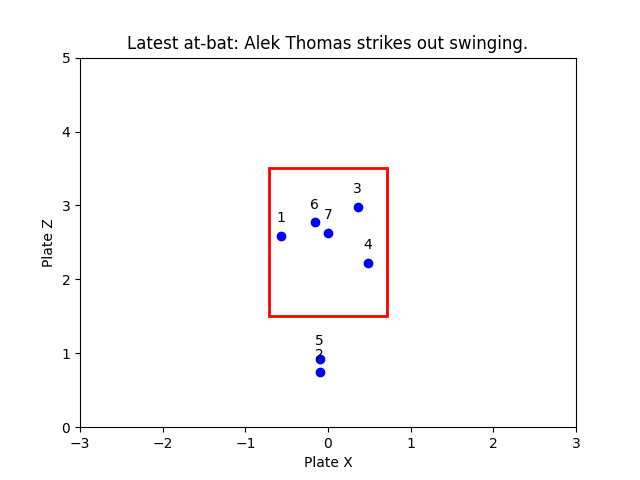
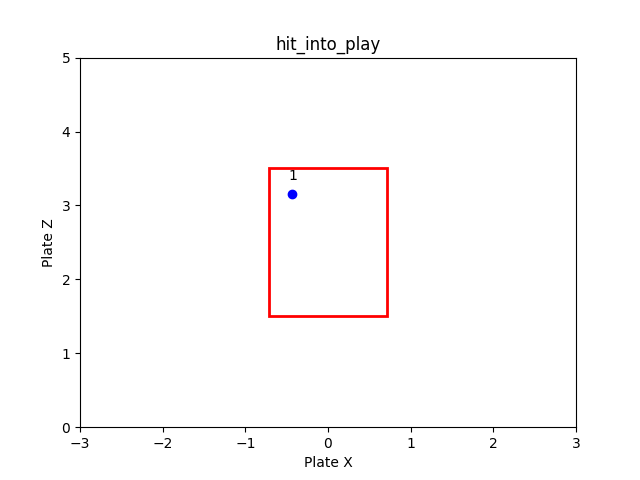
deployment test

diff --git a/frontend/src/views/MatchupView.vue b/frontend/src/views/MatchupView.vue
@@ -22,42 +22,45 @@
           solo
           class="mt-3"
         ></v-autocomplete>
-        <v-btn color="primary" @click="fetchLatestAtBatPlot">Show Latest At-Bat Plot</v-btn>
-        
-        <v-col cols="12" sm="8" md="6">
-        <v-img v-if="showImage"
-              src="@/assets/static/latest_at_bat.png"
-              alt="Latest At-Bat Plot">
-        </v-img>
+        <v-btn color="primary" v-if="selectedPlayer" @click="fetchLatestAtBatPlot">Show Latest At-Bat Plot</v-btn>
       </v-col>
+      <v-col cols="12" sm="8" md="6" class="d-flex justify-center">
+        <v-img v-if="showImage"
+               src="@/assets/static/latest_at_bat.png"
+               alt="Latest At-Bat Plot">
+        </v-img>
       </v-col>
     </v-row>
   </v-container>
-
     <v-container fluid>
       <v-row justify="center">
         <v-col cols="12" class="text-center">
           <div class="display-2 font-weight-bold mb-6">Baseball Statistics</div>
         </v-col>
       </v-row>
-      
-      <v-row>
-        <v-col cols="12" md="6">
-          <v-card class="pa-4 mx-auto elevation-6" outlined>
-            <v-text-field v-model="pitcherId" label="Pitcher ID" outlined dense solo-inverted solo class="mb-2"></v-text-field>
-            
-            <v-alert v-if="pitcherError" type="error" class="mt-2">{{ pitcherError }}</v-alert>
-          </v-card>
-        </v-col>
+   
+      <v-container fluid>
+  <v-row justify="center">
+    <!-- Aligning pitcher stats card with an image below -->
+    <v-col cols="12" md="6">
+      <v-card class="pa-4 mx-auto elevation-6" outlined>
+        <v-text-field v-model="pitcherId" label="Pitcher ID" outlined dense solo-inverted solo class="mb-2"></v-text-field>
+        <v-btn color="primary" @click="updatePitcherStats">Fetch Pitcher Stats</v-btn>
+        <v-alert v-if="pitcherError" type="error" class="mt-2">{{ pitcherError }}</v-alert>
+      </v-card>
+    </v-col>
 
-        <v-col cols="12" md="6">
-          <v-card class="pa-4 mx-auto elevation-6" outlined>
-            <v-text-field v-model="batterId" label="Batter ID" outlined dense solo-inverted solo class="mb-2"></v-text-field>
-            
-            <v-alert v-if="batterError" type="error" class="mt-2">{{ batterError }}</v-alert>
-          </v-card>
-        </v-col>
-      </v-row>
+    <!-- Aligning batter stats card with an image below -->
+    <v-col cols="12" md="6">
+      <v-card class="pa-4 mx-auto elevation-6" outlined>
+        <v-text-field v-model="batterId" label="Batter ID" outlined dense solo-inverted solo class="mb-2"></v-text-field>
+        <v-btn color="primary" @click="updateBatterStats">Fetch Batter Stats</v-btn>
+        <v-alert v-if="batterError" type="error" class="mt-2">{{ batterError }}</v-alert>
+      </v-card>
+    </v-col>
+  </v-row>
+</v-container>
+
 
       <v-row>
         <v-col cols="12" md="6">
@@ -196,45 +199,46 @@
     this.playerDescriptions = filteredDescriptions;
 
   },
-    updatePitcherStats() {
-      this.pitcherError = ''; // Reset error message each time the method is called
-      if (!this.pitcherId.trim()) {
-        this.pitcherError = 'Please enter a Pitcher ID';
-        return;
-      }
+  
+  updatePitcherStats() {
+    this.pitcherError = ''; // Reset any existing error message
+    if (!this.pitcherId.trim()) {
+      return;
+    }
 
-      const host = "http://" + this.$store.state.host + "/api/player_pitching_stats";
-      axios.get(host, { params: { player_name: this.pitcherId } })
-        .then(response => {
-          if (!response.data || Object.keys(response.data).length === 0) {
-            this.pitcherError = 'No data found for this Pitcher ID';
-          } else {
-            this.pitcherStats = response.data;
-          }
-        })
-        .catch(error => {
-          this.pitcherError = 'Failed to fetch data: ' + error.message;
-        });
-    },
-    updateBatterStats() {
-      this.batterError = ''; // Reset error message each time the method is called
-      if (!this.batterId.trim()) {
-        this.batterError = 'Please enter a Batter ID';
-        return;
-      }
+    const host = "http://" + this.$store.state.host + "/api/player_pitching_stats";
+    axios.get(host, { params: { player_name: this.pitcherId } })
+      .then(response => {
+        if (!response.data || Object.keys(response.data).length === 0) {
+          alert('No statistics found for the entered Pitcher ID. Please check the ID and try again.');
+        } else {
+          this.pitcherStats = response.data;
+        }
+      })
+      .catch(error => {
+        alert('Failed to fetch data: ' + error.message);
+      });
+  },
+
+  updateBatterStats() {
+    this.batterError = ''; // Reset any existing error message
+    if (!this.batterId.trim()) {
+   
+      return;
+    }
 
     const host = "http://" + this.$store.state.host + "/api/player_batting_stats";
     axios.get(host, { params: { player_name: this.batterId } })
-
       .then(response => {
         if (!response.data || Object.keys(response.data).length === 0) {
-          this.batterError = 'No data found for this Batter ID';
+          alert('No statistics t found for the entered Batter ID. Please check the ID and try again.');
+        
         } else {
           this.batterStats = response.data;
         }
       })
       .catch(error => {
-        this.batterError = 'Error fetching batter data: ' + error.message;
+        alert('Error fetching batter data: ' + error.message);
       });
   },
   handleFileUpload(event) {
@@ -407,24 +411,7 @@ analyzeOutings() {
         );
       },
   watch: {
-    pitcherId(newVal, oldVal) {
-      if (newVal.trim() !== oldVal.trim()) {
-        this.updatePitcherStats();
-      }
-    },
-    batterId(newVal, oldVal) {
-      if (newVal.trim() !== oldVal.trim()) {
-        this.updateBatterStats();
-      }
-    },
-    selectedPlayer(newVal) {
-      if (newVal && this.nameIndexMap.has(newVal)) {
-        const playerData = this.nameIndexMap.get(newVal);
-        this.selectedImageUrl = playerData.imageUrl || this.placeholderImageUrl;
-      } else {
-        this.selectedImageUrl = this.placeholderImageUrl; // Clear if no valid selection or before any selection
-    }
-  },
+    
   }
 };
   </script>
@@ -541,7 +528,7 @@ analyzeOutings() {
 
   .statistic-cell {
   font-weight: bold;
-  color: #333; /* Dark color for statistic names */
+  color: #ffffff; /* Dark color for statistic names */
 }
 
 .value-cell {

diff --git a/frontend/src/views/StatisticsView.vue b/frontend/src/views/StatisticsView.vue
@@ -62,8 +62,8 @@
     <tbody>
       <tr v-for="(value, stat) in fieldingStats" :key="`fielding-${stat}`">
         <!-- Use v-bind:style to dynamically change styles -->
-        <td :style="{ fontWeight: 'bold' }">{{ stat }}</td>
-        <td :style="{ backgroundColor: getValueBackground(value), color: getValueColor(value) }">{{ value }}</td>
+        <td class="statistic-cell">{{ stat }}</td>
+        <td class="value-cell">{{ value }}</td>
       </tr>
     </tbody>
   </template>
@@ -139,34 +139,52 @@ export default {
 
     // Define what happens when the file has been read
     reader.onload = (e) => {
-      const content = e.target.result;
-      // Split the content by newline to count rows, consider CSV header
-      const rows = content.split('/n').filter(line => line.trim() !== '');
-      if (rows.length < 150) {
-        alert('Warning: The uploaded file contains less than 150 rows. This might affect the analysis accuracy.');
-      }
+        const content = e.target.result;
+        // Split the content by newline to process each row
+        const rows = content.split('\n').filter(line => line.trim() !== '');
+        // Check the headers and remove any quotes
+        const headers = rows[0].split(',').map(header => header.trim().replace(/['"]/g, ''));
 
-      // Proceed to upload the file to the server
-      const formData = new FormData();
-      formData.append('file', file);
-      const host = "http://" + this.$store.state.host + "/api/upload";
-      axios.post(host, formData, {
-        headers: {
-          'Content-Type': 'multipart/form-data'
+        // Define required column names
+        const requiredColumns = ['pitch_type', 'game_date', 'release_speed','plate_x','plate_z','events']; // Add your specific column names here
+        // Determine which required columns are missing
+        const missingColumns = requiredColumns.filter(col => !headers.includes(col));
+
+        // Check if all required columns are present
+        if (missingColumns.length > 0) {
+            alert('Warning: The uploaded file is missing the following required column(s): ' + missingColumns.join(', '));
+            return; // Stop further processing if the required columns are not found
         }
-      })
-      .then(response => {
-        console.log(response.data.message);
-        // Additional actions based on successful upload, if needed
-      })
-      .catch(error => {
-        console.error('Error during file upload:', error);
-      });
+
+        // Check the row count (considering the first row as header)
+        if (rows.length - 1 < 150) {
+            alert('Warning: The uploaded file contains less than 150 rows. This might affect the analysis accuracy.');
+        }
+
+        
+          // Proceed to upload the file to the server
+          const formData = new FormData();
+          formData.append('file', file);
+          const host = "http://" + this.$store.state.host + "/api/upload";
+          axios.post(host, formData, {
+              headers: {
+                  'Content-Type': 'multipart/form-data'
+              }
+          })
+          .then(response => {
+              console.log(response.data.message);
+              // Additional actions based on successful upload, if needed
+          })
+          .catch(error => {
+              console.error('Error during file upload:', error);
+          });
+        
     };
 
-    // Trigger the file read
+    // Read the file as a text
     reader.readAsText(file);
-  },
+},
+
   downloadTemplate() {
         window.location.href = "http://" + this.$store.state.host + "/api/download-template";
     },
@@ -242,18 +260,19 @@ export default {
 
 .statistic-cell {
   font-weight: bold;
-  color: #333; /* Dark color for statistic names */
+  color: #f1f1f1; /* Dark color for statistic names */
+  background-color: #004409; /* Light grey background for values */
 }
 
 .value-cell {
   background-color: #eee; /* Light grey background for values */
-  color: #666; /* Dark grey color for text */
+  color: #0c0505; /* Dark grey color for text */
 }
 .player-stats-container {
   max-width: 1200px;
   margin: auto;
   padding: 20px;
-  background: rgba(240, 255, 244, 0.3); /* Subtle green background */
+  background: rgba(240, 255, 244, 0.103); /* Subtle green background */
   border-radius: 10px;
   box-shadow: 0 4px 6px rgba(0, 0, 0, 0.1);
 }
@@ -264,7 +283,7 @@ export default {
 }
 
 .v-simple-table tbody tr:nth-child(odd) {
-  background-color: rgba(144, 238, 144, 0.3); /* Light green for odd rows */
+  background-color: rgba(24, 253, 24, 0.3); /* Light green for odd rows */
 }
 
 .v-simple-table tbody tr:hover {

diff --git a/frontend/src/store/index.js b/frontend/src/store/index.js
@@ -77,8 +77,8 @@ const defaultAccount = {
 const store = createStore({
     state() {
         return {
-            host: "localhost:5000", // development
-            //host: "pitchtek.pro", // production
+            //host: "localhost:5000", // development
+            host: "pitchtek.pro", // production
             isLoggedIn: localStorage.getItem("token") !== null,
             recording: false,
             teamIds: [],

diff --git a/backend/app/routes.py b/backend/app/routes.py
@@ -20,8 +20,8 @@ app.config['UPLOAD_FOLDER'] = os.getenv('UPLOAD_FOLDER', './uploads')
 app.config['STATIC_FOLDER'] = os.getenv('STATIC_FOLDER', './static')
 
 df_global = pd.DataFrame()
-HOST = "localhost:5000" # development
-# HOST = "pitchtek.pro" # deployment
+#HOST = "localhost:5000" # development
+HOST = "pitchtek.pro" # deployment
 
 
 @app.route('/api/sign_up', methods=['POST'])
@@ -304,7 +304,7 @@ def fetch_latest_at_bat_plot():
 
     ax.set_xlim(-3, 3)
     ax.set_ylim(0, 5)
-    ax.set_title(f"Latest at-bat: {latest_at_bat['des']}")
+    ax.set_title(f"{latest_at_bat['des']}")
     ax.set_xlabel('Plate X')
     ax.set_ylabel('Plate Z')
 
